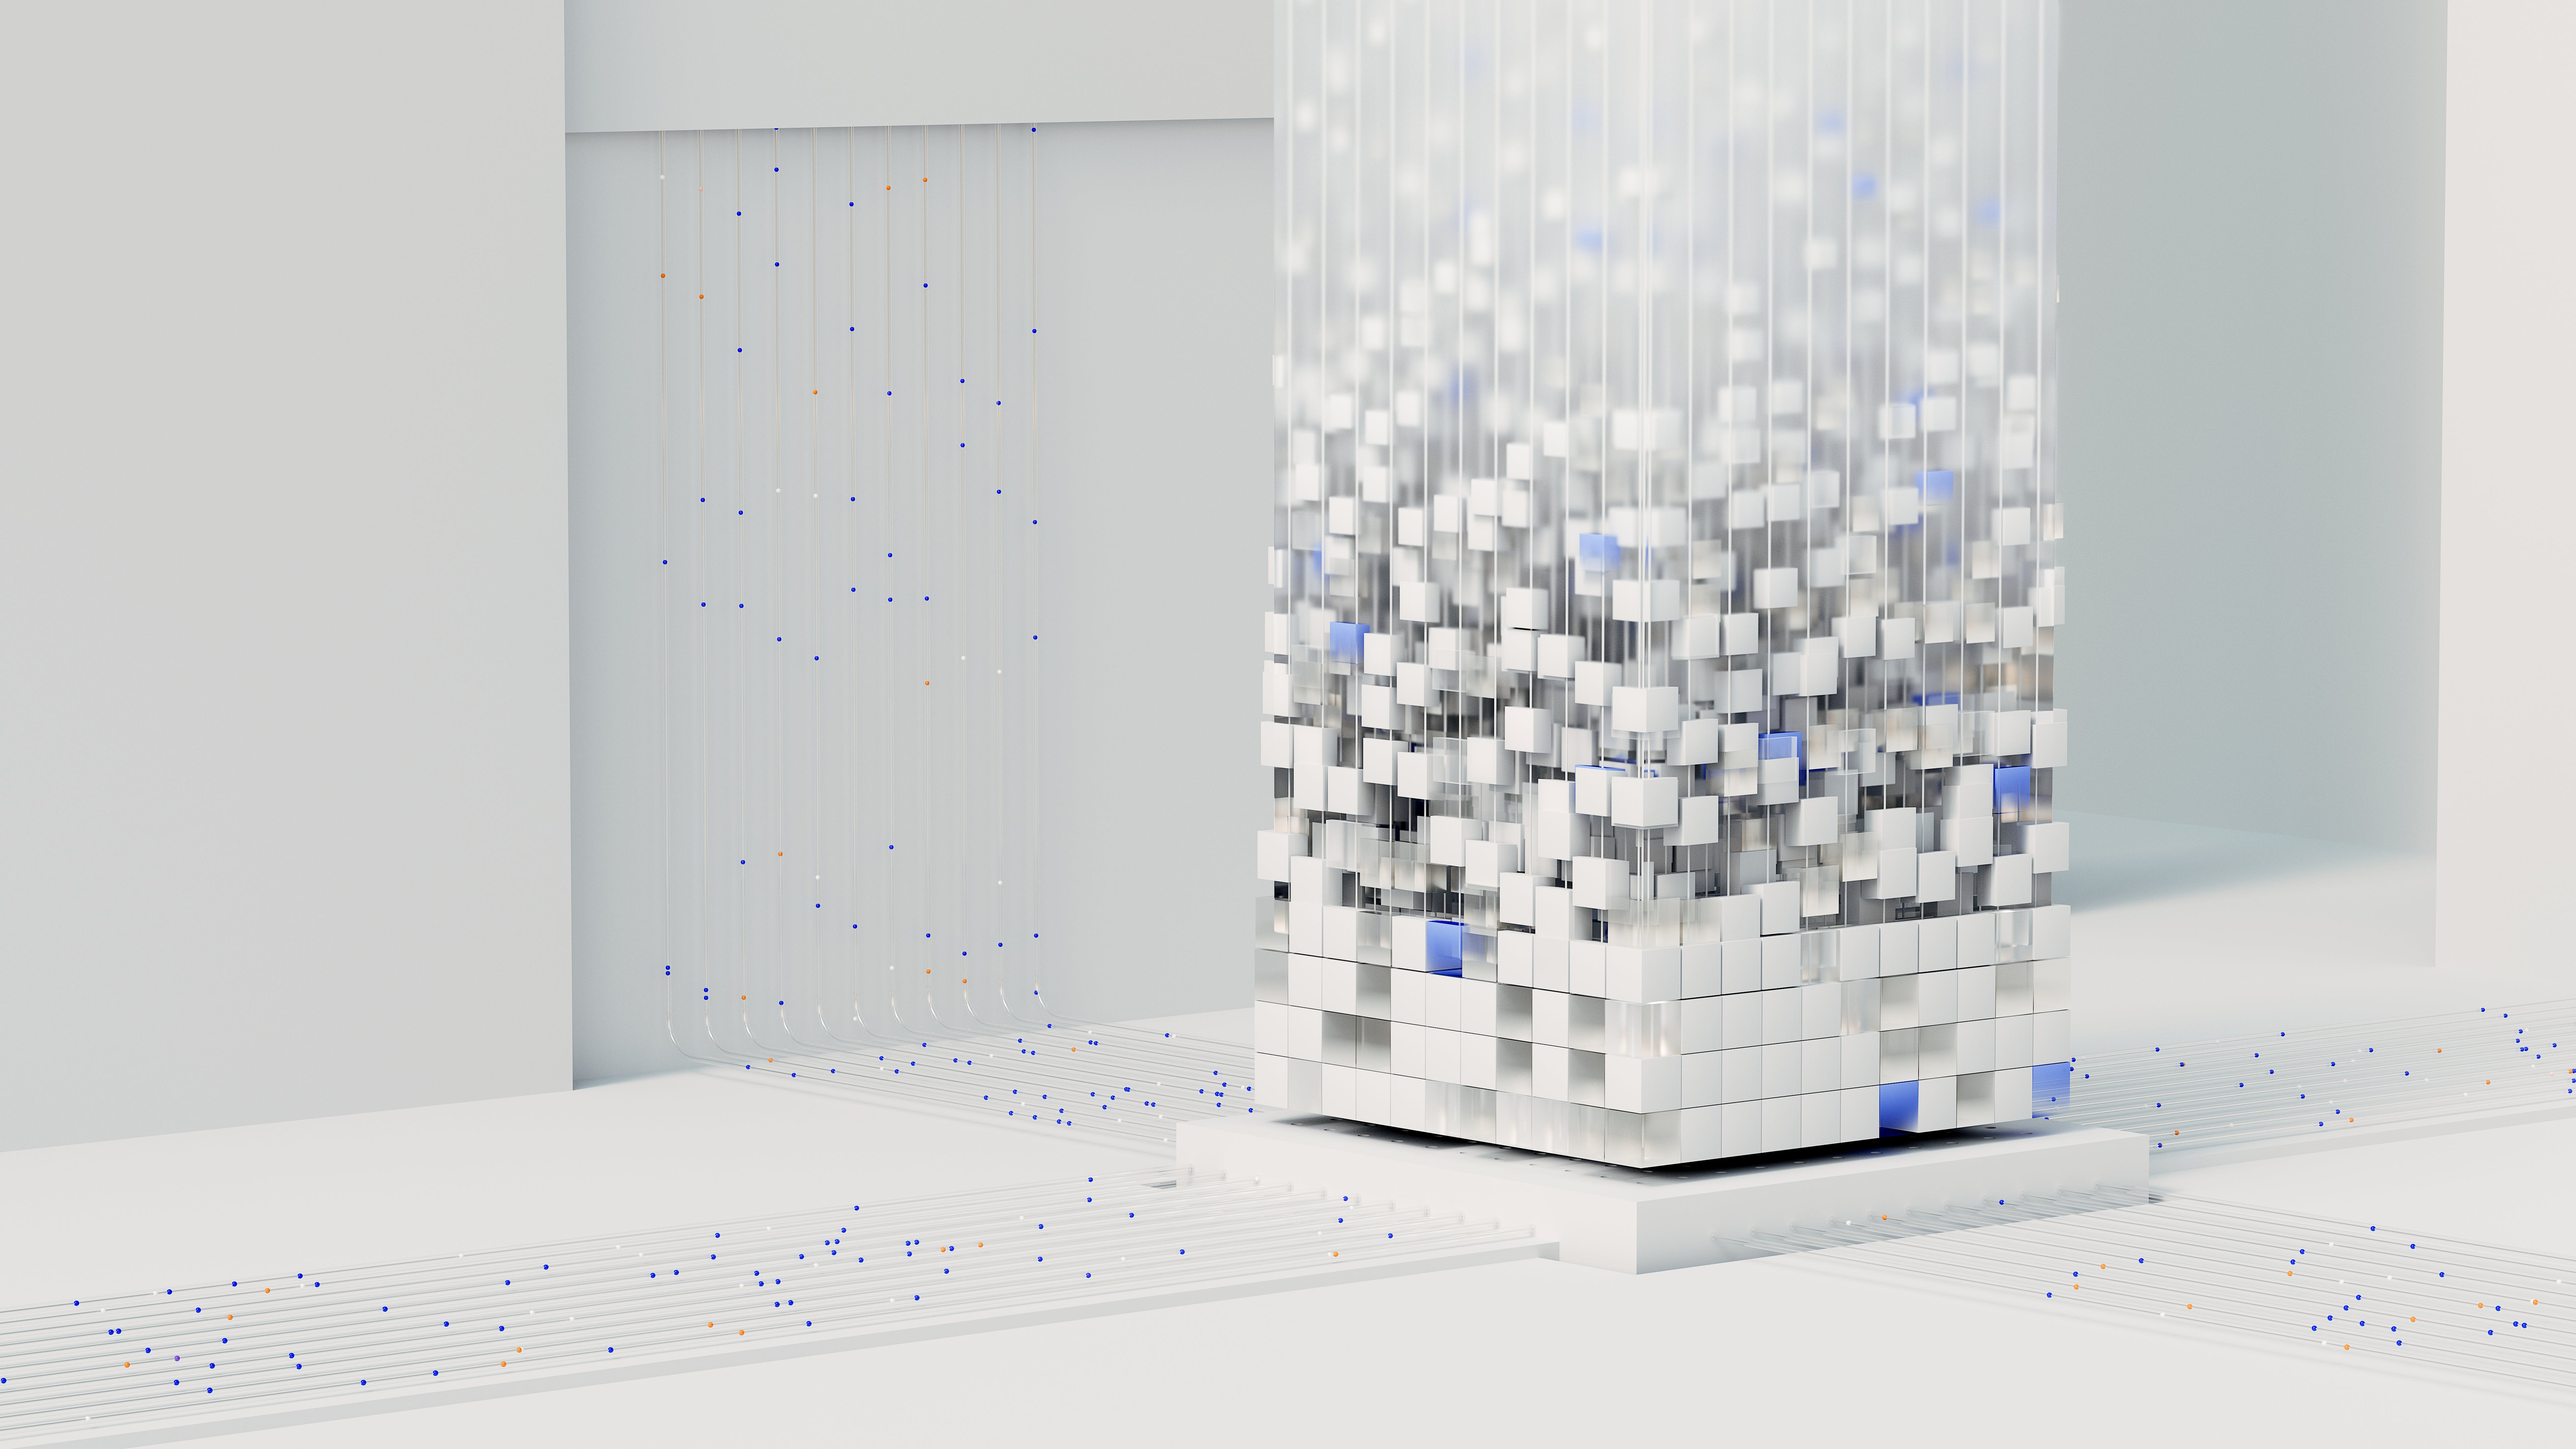
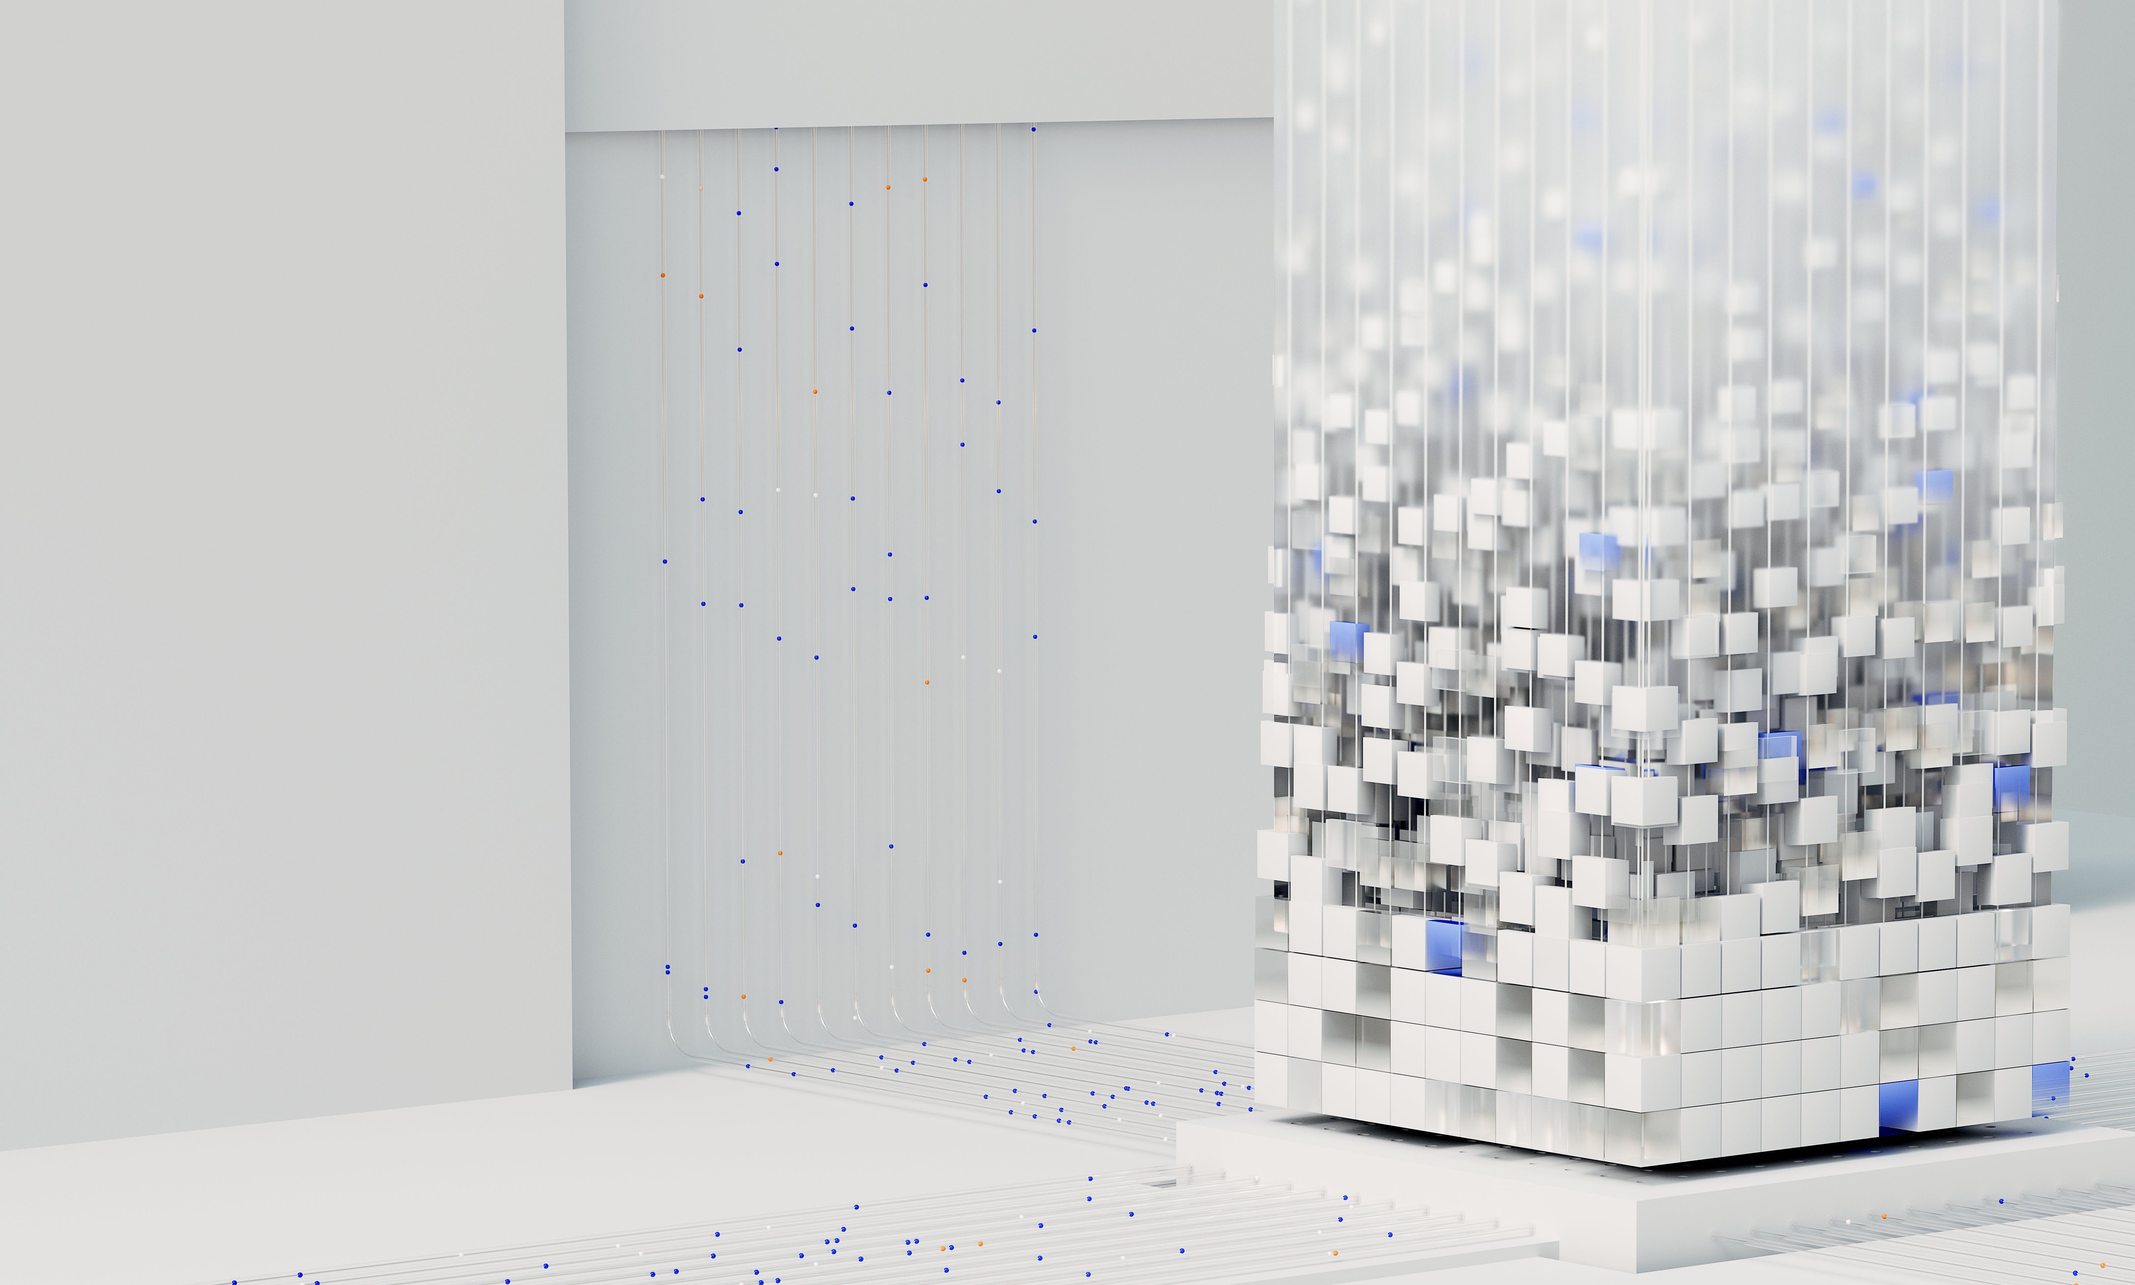
changed background image

diff --git a/docs/projects.html b/docs/projects.html
@@ -280,7 +280,7 @@ to calculate the integral that determines how far you move.</p>
         position: fixed;
         top: 0;
         left: 0;
-        background: #fff url("./images/deepmind8.jpg") center no-repeat;
+        background: #fff url("./images/deepmind3.jpg") center no-repeat;
         background-size: cover;
         background-position: center center;
         z-index: 0;
@@ -315,8 +315,8 @@ to calculate the integral that determines how far you move.</p>
         right: 0;
         bottom: 0;
         box-shadow: inset 0 0 2000px rgba(255, 255, 255, .5);
-        backdrop-filter: blur(35px) !important;
-        -webkit-backdrop-filter: blur(30px) !important;
+        backdrop-filter: blur(30px) !important;
+        -webkit-backdrop-filter: blur(20px) !important;
         margin: -20px;
     }
 
@@ -366,7 +366,7 @@ to calculate the integral that determines how far you move.</p>
 <div id="footer-container">
 <div id="footer">
 <div id="footer-text">
-Last edited  on December 11<sup>th</sup> 2023  05:27PM (Time Zone: CST). </br>
+Last edited  on December 11<sup>th</sup> 2023  06:57PM (Time Zone: CST). </br>
 Powered by <a href="https://github.com/szl2/jemdoc-new-design" target="blank">jemdoc + new design      </a>.
 Background images from <a href="https://deepmind.google/discover/visualising-ai/" target="blank">Google Deepmind</a>.
 Professional headshot from <a href="https://www.shennyvisuals.com" target="blank">Shenny Visuals</a>.

diff --git a/docs/publications.html b/docs/publications.html
@@ -167,7 +167,7 @@ Thus, we show that current generative models cannot reliably generate correct sh
 <div id="footer-container">
 <div id="footer">
 <div id="footer-text">
-Last edited  on December 11<sup>th</sup> 2023  05:27PM (Time Zone: CST). </br>
+Last edited  on December 11<sup>th</sup> 2023  06:57PM (Time Zone: CST). </br>
 Powered by <a href="https://github.com/szl2/jemdoc-new-design" target="blank">jemdoc + new design      </a>.
 Background images from <a href="https://deepmind.google/discover/visualising-ai/" target="blank">Google Deepmind</a>.
 Professional headshot from <a href="https://www.shennyvisuals.com" target="blank">Shenny Visuals</a>.

diff --git a/docs/index.html b/docs/index.html
@@ -132,7 +132,7 @@ A Few Good Men, The Crucible, Shrek the Musical, and Drowsy Chaperone. </p>
 <div id="footer-container">
 <div id="footer">
 <div id="footer-text">
-Last edited  on December 11<sup>th</sup> 2023  05:27PM (Time Zone: CST). </br>
+Last edited  on December 11<sup>th</sup> 2023  06:57PM (Time Zone: CST). </br>
 Powered by <a href="https://github.com/szl2/jemdoc-new-design" target="blank">jemdoc + new design      </a>.
 Background images from <a href="https://deepmind.google/discover/visualising-ai/" target="blank">Google Deepmind</a>.
 Professional headshot from <a href="https://www.shennyvisuals.com" target="blank">Shenny Visuals</a>.

diff --git a/docs/profile.html b/docs/profile.html
@@ -132,7 +132,7 @@ A Few Good Men, The Crucible, Shrek the Musical, and Drowsy Chaperone. </p>
 <div id="footer-container">
 <div id="footer">
 <div id="footer-text">
-Last edited  on December 11<sup>th</sup> 2023  05:27PM (Time Zone: CST). </br>
+Last edited  on December 11<sup>th</sup> 2023  06:57PM (Time Zone: CST). </br>
 Powered by <a href="https://github.com/szl2/jemdoc-new-design" target="blank">jemdoc + new design      </a>.
 Background images from <a href="https://deepmind.google/discover/visualising-ai/" target="blank">Google Deepmind</a>.
 Professional headshot from <a href="https://www.shennyvisuals.com" target="blank">Shenny Visuals</a>.

diff --git a/docs/awards.html b/docs/awards.html
@@ -215,7 +215,7 @@ MathJax.Hub.Config({
 <div id="footer-container">
 <div id="footer">
 <div id="footer-text">
-Last edited  on December 11<sup>th</sup> 2023  05:27PM (Time Zone: CST). </br>
+Last edited  on December 11<sup>th</sup> 2023  06:57PM (Time Zone: CST). </br>
 Powered by <a href="https://github.com/szl2/jemdoc-new-design" target="blank">jemdoc + new design      </a>.
 Background images from <a href="https://deepmind.google/discover/visualising-ai/" target="blank">Google Deepmind</a>.
 Professional headshot from <a href="https://www.shennyvisuals.com" target="blank">Shenny Visuals</a>.

diff --git a/docs/contact.html b/docs/contact.html
@@ -291,7 +291,7 @@ MathJax.Hub.Config({
 <div id="footer-container">
 <div id="footer">
 <div id="footer-text">
-Last edited  on December 11<sup>th</sup> 2023  05:27PM (Time Zone: CST). </br>
+Last edited  on December 11<sup>th</sup> 2023  06:57PM (Time Zone: CST). </br>
 Powered by <a href="https://github.com/szl2/jemdoc-new-design" target="blank">jemdoc + new design      </a>.
 Background images from <a href="https://deepmind.google/discover/visualising-ai/" target="blank">Google Deepmind</a>.
 Professional headshot from <a href="https://www.shennyvisuals.com" target="blank">Shenny Visuals</a>.
